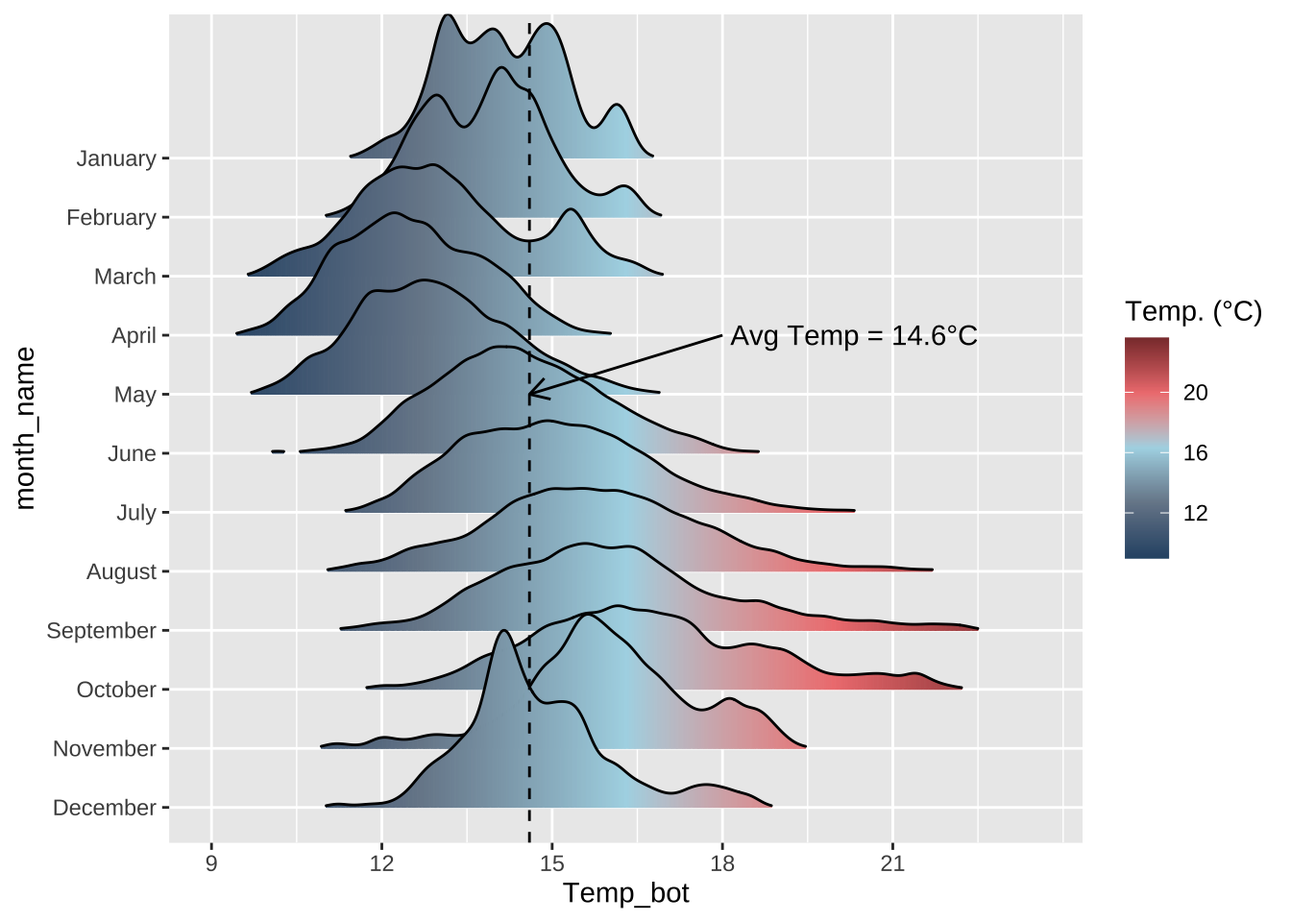
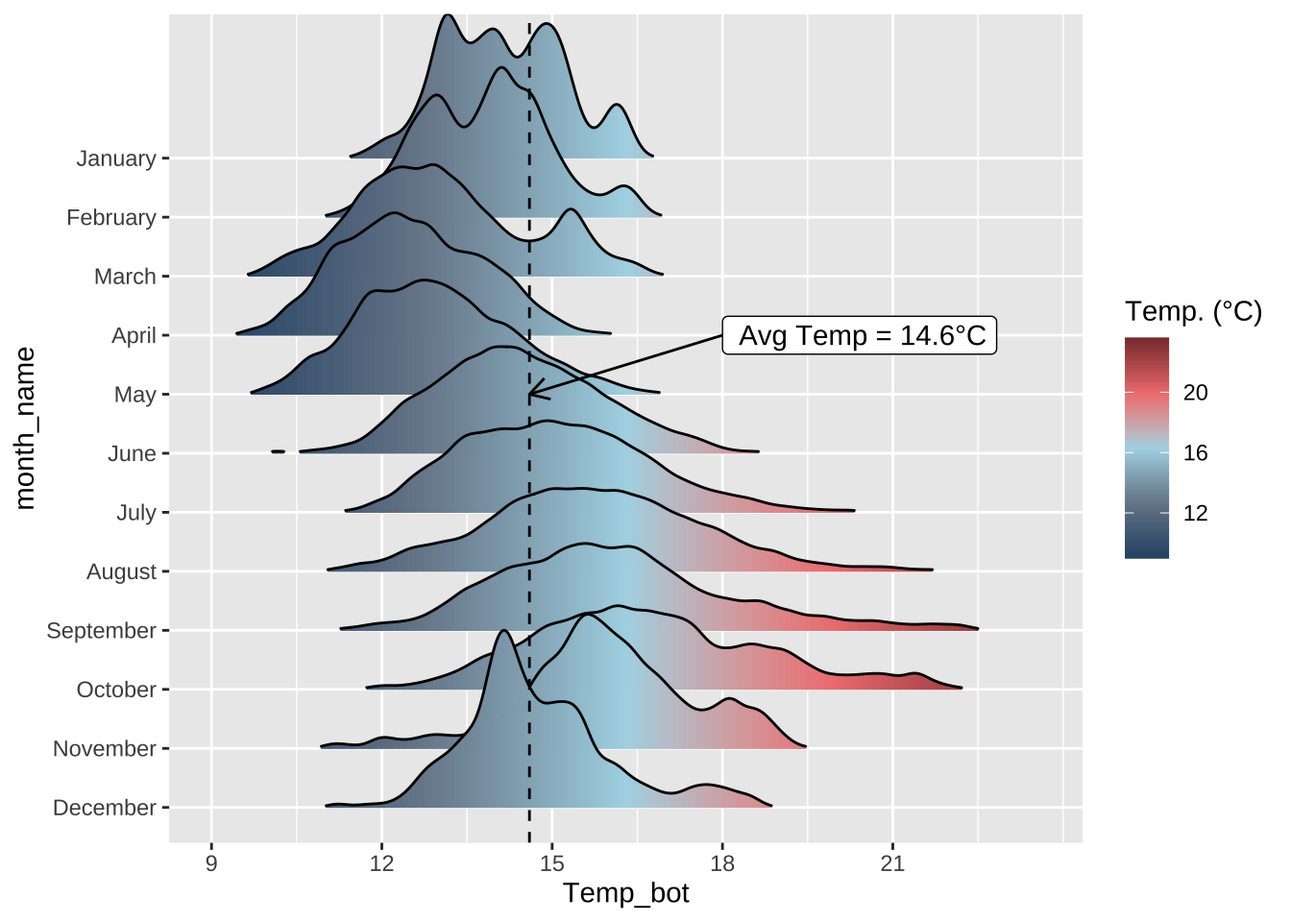
added words of wisdom section

Changed region(s): [[0.5625, 0.3438, 0.7812, 0.4062]]

diff --git a/index.html b/index.html
@@ -115,6 +115,7 @@ code span.wa { color: #60a0b0; font-weight: bold; font-style: italic; } /* Warni
   <li><a href="#step-3.-create-a-basic-plot" id="toc-step-3.-create-a-basic-plot" class="nav-link" data-scroll-target="#step-3.-create-a-basic-plot"><svg aria-label="Chart Simple" role="img" viewbox="0 0 448 512" style="height:1em;width:0.88em;vertical-align:-0.125em;margin-left:auto;margin-right:auto;font-size:inherit;fill:#5A5A5A;overflow:visible;position:relative;"><title>Chart Simple</title><path d="M160 80c0-26.5 21.5-48 48-48h32c26.5 0 48 21.5 48 48V432c0 26.5-21.5 48-48 48H208c-26.5 0-48-21.5-48-48V80zM0 272c0-26.5 21.5-48 48-48H80c26.5 0 48 21.5 48 48V432c0 26.5-21.5 48-48 48H48c-26.5 0-48-21.5-48-48V272zM368 96h32c26.5 0 48 21.5 48 48V432c0 26.5-21.5 48-48 48H368c-26.5 0-48-21.5-48-48V144c0-26.5 21.5-48 48-48z"></path></svg> Step 3. Create a basic plot</a></li>
   <li><a href="#step-4.-improve-clarity-take-home-messages" id="toc-step-4.-improve-clarity-take-home-messages" class="nav-link" data-scroll-target="#step-4.-improve-clarity-take-home-messages"><svg aria-label="Lightbulb" role="img" viewbox="0 0 384 512" style="height:1em;width:0.75em;vertical-align:-0.125em;margin-left:auto;margin-right:auto;font-size:inherit;fill:#5A5A5A;overflow:visible;position:relative;"><title>Lightbulb</title><path d="M112.1 454.3c0 6.297 1.816 12.44 5.284 17.69l17.14 25.69c5.25 7.875 17.17 14.28 26.64 14.28h61.67c9.438 0 21.36-6.401 26.61-14.28l17.08-25.68c2.938-4.438 5.348-12.37 5.348-17.7L272 415.1h-160L112.1 454.3zM192 0C90.02 .3203 16 82.97 16 175.1c0 44.38 16.44 84.84 43.56 115.8c16.53 18.84 42.34 58.23 52.22 91.45c.0313 .25 .0938 .5166 .125 .7823h160.2c.0313-.2656 .0938-.5166 .125-.7823c9.875-33.22 35.69-72.61 52.22-91.45C351.6 260.8 368 220.4 368 175.1C368 78.8 289.2 .0039 192 0zM288.4 260.1c-15.66 17.85-35.04 46.3-49.05 75.89h-94.61c-14.01-29.59-33.39-58.04-49.04-75.88C75.24 236.8 64 206.1 64 175.1C64 113.3 112.1 48.25 191.1 48C262.6 48 320 105.4 320 175.1C320 206.1 308.8 236.8 288.4 260.1zM176 80C131.9 80 96 115.9 96 160c0 8.844 7.156 16 16 16S128 168.8 128 160c0-26.47 21.53-48 48-48c8.844 0 16-7.148 16-15.99S184.8 80 176 80z"></path></svg> Step 4. Improve clarity &amp; take-home message(s)</a></li>
   <li><a href="#step-5.-final-touches-polishing" id="toc-step-5.-final-touches-polishing" class="nav-link" data-scroll-target="#step-5.-final-touches-polishing"><svg aria-label="Palette" role="img" viewbox="0 0 512 512" style="height:1em;width:1em;vertical-align:-0.125em;margin-left:auto;margin-right:auto;font-size:inherit;fill:#5A5A5A;overflow:visible;position:relative;"><title>Palette</title><path d="M512 256c0 .9 0 1.8 0 2.7c-.4 36.5-33.6 61.3-70.1 61.3H344c-26.5 0-48 21.5-48 48c0 3.4 .4 6.7 1 9.9c2.1 10.2 6.5 20 10.8 29.9c6.1 13.8 12.1 27.5 12.1 42c0 31.8-21.6 60.7-53.4 62c-3.5 .1-7 .2-10.6 .2C114.6 512 0 397.4 0 256S114.6 0 256 0S512 114.6 512 256zM128 288c0-17.7-14.3-32-32-32s-32 14.3-32 32s14.3 32 32 32s32-14.3 32-32zm0-96c17.7 0 32-14.3 32-32s-14.3-32-32-32s-32 14.3-32 32s14.3 32 32 32zM288 96c0-17.7-14.3-32-32-32s-32 14.3-32 32s14.3 32 32 32s32-14.3 32-32zm96 96c17.7 0 32-14.3 32-32s-14.3-32-32-32s-32 14.3-32 32s14.3 32 32 32z"></path></svg> Step 5. Final touches / polishing</a></li>
+  <li><a href="#notes-words-of-wisdom" id="toc-notes-words-of-wisdom" class="nav-link" data-scroll-target="#notes-words-of-wisdom"><svg aria-label="Pencil" role="img" viewbox="0 0 512 512" style="height:1em;width:1em;vertical-align:-0.125em;margin-left:auto;margin-right:auto;font-size:inherit;fill:#5A5A5A;overflow:visible;position:relative;"><title>Pencil</title><path d="M410.3 231l11.3-11.3-33.9-33.9-62.1-62.1L291.7 89.8l-11.3 11.3-22.6 22.6L58.6 322.9c-10.4 10.4-18 23.3-22.2 37.4L1 480.7c-2.5 8.4-.2 17.5 6.1 23.7s15.3 8.5 23.7 6.1l120.3-35.4c14.1-4.2 27-11.8 37.4-22.2L387.7 253.7 410.3 231zM160 399.4l-9.1 22.7c-4 3.1-8.5 5.4-13.3 6.9L59.4 452l23-78.1c1.4-4.9 3.8-9.4 6.9-13.3l22.7-9.1v32c0 8.8 7.2 16 16 16h32zM362.7 18.7L348.3 33.2 325.7 55.8 314.3 67.1l33.9 33.9 62.1 62.1 33.9 33.9 11.3-11.3 22.6-22.6 14.5-14.5c25-25 25-65.5 0-90.5L453.3 18.7c-25-25-65.5-25-90.5 0zm-47.4 168l-144 144c-6.2 6.2-16.4 6.2-22.6 0s-6.2-16.4 0-22.6l144-144c6.2-6.2 16.4-6.2 22.6 0s6.2 16.4 0 22.6z"></path></svg> Notes &amp; Words of Wisdom</a></li>
   <li><a href="#how-do-i-get-better-gain-confidence-in-creating-data-visualizations" id="toc-how-do-i-get-better-gain-confidence-in-creating-data-visualizations" class="nav-link" data-scroll-target="#how-do-i-get-better-gain-confidence-in-creating-data-visualizations"><strong><svg aria-label="Laptop Code" role="img" viewbox="0 0 640 512" style="height:1em;width:1.25em;vertical-align:-0.125em;margin-left:auto;margin-right:auto;font-size:inherit;fill:#5A5A5A;overflow:visible;position:relative;"><title>Laptop Code</title><path d="M64 96c0-35.3 28.7-64 64-64H512c35.3 0 64 28.7 64 64V352H512V96H128V352H64V96zM0 403.2C0 392.6 8.6 384 19.2 384H620.8c10.6 0 19.2 8.6 19.2 19.2c0 42.4-34.4 76.8-76.8 76.8H76.8C34.4 480 0 445.6 0 403.2zM281 209l-31 31 31 31c9.4 9.4 9.4 24.6 0 33.9s-24.6 9.4-33.9 0l-48-48c-9.4-9.4-9.4-24.6 0-33.9l48-48c9.4-9.4 24.6-9.4 33.9 0s9.4 24.6 0 33.9zM393 175l48 48c9.4 9.4 9.4 24.6 0 33.9l-48 48c-9.4 9.4-24.6 9.4-33.9 0s-9.4-24.6 0-33.9l31-31-31-31c-9.4-9.4-9.4-24.6 0-33.9s24.6-9.4 33.9 0z"></path></svg></strong> How do I get better / gain confidence in creating data visualizations?</a></li>
   <li><a href="#review-resources" id="toc-review-resources" class="nav-link" data-scroll-target="#review-resources"><strong><svg aria-label="Book open reader" role="img" viewbox="0 0 512 512" style="height:1em;width:1em;vertical-align:-0.125em;margin-left:auto;margin-right:auto;font-size:inherit;fill:#5A5A5A;overflow:visible;position:relative;"><title>Book open reader</title><path d="M352 96c0 53-43 96-96 96s-96-43-96-96s43-96 96-96s96 43 96 96zM240 248V512l-48.4-24.2c-20.9-10.4-43.5-17-66.8-19.3l-96-9.6C12.5 457.2 0 443.5 0 427V224c0-17.7 14.3-32 32-32H62.3c63.6 0 125.6 19.6 177.7 56zm32 264V248c52.1-36.4 114.1-56 177.7-56H480c17.7 0 32 14.3 32 32V427c0 16.4-12.5 30.2-28.8 31.8l-96 9.6c-23.2 2.3-45.9 8.9-66.8 19.3L272 512z"></path></svg></strong> Review &amp; Resources</a></li>
   </ul>
@@ -228,6 +229,7 @@ There are many ways to create the same visualization!
 <p>It’s important to remember that there are lots of different tools, packages, and approaches for building similarly-looking plots. My approach may not be what makes most intuitive sense to you – I encourage you to explore documentation and additional examples!</p>
 </div>
 </div>
+<p>If you need a high-level <code>{ggplot2}</code> review and/or a reminder of important considerations for building responsible data visualizations, take a look back at Allison Horst’s lectures <a href="https://docs.google.com/presentation/d/e/2PACX-1vSpUdai7BTXprh3dwSNBpJymNGUIOFhEgQn5XbQWZhWy8EpUyd64Lem08YK_kc6tP0iyoJ5wRAVvSYe/pub?start=false&amp;loop=false&amp;delayms=3000&amp;slide=id.p">15</a> and <a href="https://docs.google.com/presentation/d/e/2PACX-1vR1QB0S3AfBfdJZ1nnhUw2iKSxV83GDc5l9BYPC6yQhxBdnzRpAAZ2lh7QWhX4kY65Uf_q0yK9FtHmW/pub?start=false&amp;loop=false&amp;delayms=3000&amp;slide=id.p">16</a> from EDS 221.</p>
 <section id="step-1.-what-data-types" class="level2">
 <h2 class="anchored" data-anchor-id="step-1.-what-data-types"><svg aria-label="table" role="img" viewbox="0 0 512 512" style="height:1em;width:1em;vertical-align:-0.125em;margin-left:auto;margin-right:auto;font-size:inherit;fill:#5A5A5A;overflow:visible;position:relative;"><title>table</title><path d="M64 256V160H224v96H64zm0 64H224v96H64V320zm224 96V320H448v96H288zM448 256H288V160H448v96zM64 32C28.7 32 0 60.7 0 96V416c0 35.3 28.7 64 64 64H448c35.3 0 64-28.7 64-64V96c0-35.3-28.7-64-64-64H64z"></path></svg> Step 1. What data type(s)?</h2>
 <p>In order to determine the most appropriate and effective chart type, you first need to determine what type(s) of data you’re working with.</p>
@@ -594,7 +596,7 @@ Stacked area plots should be used with caution.
 <span id="cb10-25"><a href="#cb10-25" aria-hidden="true" tabindex="-1"></a>  <span class="fu">geom_vline</span>(<span class="at">xintercept =</span> mko_avg, <span class="at">linetype =</span> <span class="st">"dashed"</span>, <span class="at">color =</span> <span class="st">"black"</span>) <span class="sc">+</span></span>
 <span id="cb10-26"><a href="#cb10-26" aria-hidden="true" tabindex="-1"></a>  <span class="fu">annotate</span>(<span class="at">geom =</span> <span class="st">"segment"</span>, <span class="at">x =</span> <span class="dv">18</span>, <span class="at">y =</span> <span class="st">"April"</span>, <span class="at">xend =</span> mko_avg, <span class="at">yend =</span> <span class="st">"May"</span>,</span>
 <span id="cb10-27"><a href="#cb10-27" aria-hidden="true" tabindex="-1"></a>           <span class="at">arrow =</span> <span class="fu">arrow</span>(<span class="at">length =</span> <span class="fu">unit</span>(<span class="dv">3</span>, <span class="st">"mm"</span>))) <span class="sc">+</span> <span class="co"># this is mostly just a bunch of manual fiddling until the arrow is placed where I want it</span></span>
-<span id="cb10-28"><a href="#cb10-28" aria-hidden="true" tabindex="-1"></a>  <span class="fu">annotate</span>(<span class="at">geom =</span> <span class="st">"text"</span>, <span class="at">x =</span> <span class="dv">18</span>, <span class="at">y =</span> <span class="st">"April"</span>, <span class="at">label =</span> <span class="fu">paste0</span>(<span class="st">" Avg Temp = "</span>, mko_avg, <span class="st">"°C"</span>), <span class="at">hjust =</span> <span class="st">"left"</span>) <span class="sc">+</span> <span class="co"># same here</span></span>
+<span id="cb10-28"><a href="#cb10-28" aria-hidden="true" tabindex="-1"></a>  <span class="fu">annotate</span>(<span class="at">geom =</span> <span class="st">"label"</span>, <span class="at">x =</span> <span class="dv">18</span>, <span class="at">y =</span> <span class="st">"April"</span>, <span class="at">label =</span> <span class="fu">paste0</span>(<span class="st">" Avg Temp = "</span>, mko_avg, <span class="st">"°C"</span>), <span class="at">hjust =</span> <span class="st">"left"</span>) <span class="sc">+</span> <span class="co"># same here</span></span>
 <span id="cb10-29"><a href="#cb10-29" aria-hidden="true" tabindex="-1"></a></span>
 <span id="cb10-30"><a href="#cb10-30" aria-hidden="true" tabindex="-1"></a>  <span class="co"># set x-axis breaks ----</span></span>
 <span id="cb10-31"><a href="#cb10-31" aria-hidden="true" tabindex="-1"></a>  <span class="fu">scale_x_continuous</span>(<span class="at">breaks =</span> <span class="fu">c</span>(<span class="dv">9</span>, <span class="dv">12</span>, <span class="dv">15</span>, <span class="dv">18</span>, <span class="dv">21</span>)) <span class="sc">+</span></span>
@@ -620,9 +622,6 @@ Stacked area plots should be used with caution.
 <li>facet wrap by our three groupings (<code>perc_group</code>: occupations that are 75%+ female, 45-55% female, and 75%+ male) and add labels denoting which facet is which</li>
 </ul>
 <p>We might also choose to:</p>
-<ul>
-<li>add labels to each panel that clearly describes the groupings (e.g.&nbsp;occupations that are 75% female)</li>
-</ul>
 <div class="cell">
 <div class="sourceCode cell-code" id="cb11"><pre class="sourceCode r code-with-copy"><code class="sourceCode r"><span id="cb11-1"><a href="#cb11-1" aria-hidden="true" tabindex="-1"></a><span class="co">#..........................load packages.........................</span></span>
 <span id="cb11-2"><a href="#cb11-2" aria-hidden="true" tabindex="-1"></a><span class="fu">library</span>(tidyverse)</span>
@@ -636,14 +635,23 @@ Stacked area plots should be used with caution.
 <span id="cb11-10"><a href="#cb11-10" aria-hidden="true" tabindex="-1"></a>select_jobs <span class="ot">&lt;-</span> <span class="fu">readRDS</span>(here<span class="sc">::</span><span class="fu">here</span>(<span class="st">"clean-data"</span>, <span class="st">"select_jobs.rds"</span>)) </span>
 <span id="cb11-11"><a href="#cb11-11" aria-hidden="true" tabindex="-1"></a></span>
 <span id="cb11-12"><a href="#cb11-12" aria-hidden="true" tabindex="-1"></a><span class="co">#..............................plot..............................</span></span>
-<span id="cb11-13"><a href="#cb11-13" aria-hidden="true" tabindex="-1"></a>earnings_plot <span class="ot">&lt;-</span> <span class="fu">ggplot</span>(select_jobs) <span class="sc">+</span></span>
-<span id="cb11-14"><a href="#cb11-14" aria-hidden="true" tabindex="-1"></a>  </span>
-<span id="cb11-15"><a href="#cb11-15" aria-hidden="true" tabindex="-1"></a>  <span class="co"># create dumbbells</span></span>
-<span id="cb11-16"><a href="#cb11-16" aria-hidden="true" tabindex="-1"></a>  <span class="fu">geom_segment</span>(<span class="fu">aes</span>(<span class="at">x =</span> occupation, <span class="at">xend =</span> occupation, <span class="at">y =</span> total_earnings_female, <span class="at">yend =</span> total_earnings_male)) <span class="sc">+</span></span>
-<span id="cb11-17"><a href="#cb11-17" aria-hidden="true" tabindex="-1"></a>  <span class="fu">geom_point</span>(<span class="fu">aes</span>(<span class="at">x =</span> occupation, <span class="at">y =</span> total_earnings_male)) <span class="sc">+</span></span>
-<span id="cb11-18"><a href="#cb11-18" aria-hidden="true" tabindex="-1"></a>  <span class="fu">geom_point</span>(<span class="fu">aes</span>(<span class="at">x =</span> occupation, <span class="at">y =</span> total_earnings_female)) </span>
-<span id="cb11-19"><a href="#cb11-19" aria-hidden="true" tabindex="-1"></a></span>
-<span id="cb11-20"><a href="#cb11-20" aria-hidden="true" tabindex="-1"></a>earnings_plot</span></code><button title="Copy to Clipboard" class="code-copy-button"><i class="bi"></i></button></pre></div>
+<span id="cb11-13"><a href="#cb11-13" aria-hidden="true" tabindex="-1"></a><span class="co"># initialize ggplot ----</span></span>
+<span id="cb11-14"><a href="#cb11-14" aria-hidden="true" tabindex="-1"></a>earnings_plot <span class="ot">&lt;-</span> <span class="fu">ggplot</span>(select_jobs) <span class="sc">+</span></span>
+<span id="cb11-15"><a href="#cb11-15" aria-hidden="true" tabindex="-1"></a>  </span>
+<span id="cb11-16"><a href="#cb11-16" aria-hidden="true" tabindex="-1"></a>  <span class="co"># create dumbbells ----</span></span>
+<span id="cb11-17"><a href="#cb11-17" aria-hidden="true" tabindex="-1"></a>  <span class="fu">geom_segment</span>(<span class="fu">aes</span>(<span class="at">x =</span> <span class="fu">reorder</span>(occupation, avg_salary), <span class="at">xend =</span> occupation, <span class="at">y =</span> total_earnings_female, <span class="at">yend =</span> total_earnings_male)) <span class="sc">+</span> <span class="co"># reorder occupation by avg_salary here</span></span>
+<span id="cb11-18"><a href="#cb11-18" aria-hidden="true" tabindex="-1"></a>  <span class="fu">geom_point</span>(<span class="fu">aes</span>(<span class="at">x =</span> occupation, <span class="at">y =</span> total_earnings_male), <span class="at">color =</span> <span class="st">"#CD93D8"</span>, <span class="at">size =</span> <span class="fl">2.5</span>) <span class="sc">+</span></span>
+<span id="cb11-19"><a href="#cb11-19" aria-hidden="true" tabindex="-1"></a>  <span class="fu">geom_point</span>(<span class="fu">aes</span>(<span class="at">x =</span> occupation, <span class="at">y =</span> total_earnings_female), <span class="at">color =</span> <span class="st">"#6A1E99"</span>, <span class="at">size =</span> <span class="fl">2.5</span>) <span class="sc">+</span></span>
+<span id="cb11-20"><a href="#cb11-20" aria-hidden="true" tabindex="-1"></a>  </span>
+<span id="cb11-21"><a href="#cb11-21" aria-hidden="true" tabindex="-1"></a>  <span class="co"># flip axes &amp; facet wrap by group ----</span></span>
+<span id="cb11-22"><a href="#cb11-22" aria-hidden="true" tabindex="-1"></a>  <span class="fu">coord_flip</span>() <span class="sc">+</span></span>
+<span id="cb11-23"><a href="#cb11-23" aria-hidden="true" tabindex="-1"></a>  <span class="fu">facet_wrap</span>(<span class="sc">~</span>perc_group_label, <span class="at">nrow =</span> <span class="dv">3</span>, <span class="at">scales =</span> <span class="st">"free_y"</span>) <span class="sc">+</span> <span class="co"># "free_y" plots only the axis labels that exist in each group</span></span>
+<span id="cb11-24"><a href="#cb11-24" aria-hidden="true" tabindex="-1"></a>  </span>
+<span id="cb11-25"><a href="#cb11-25" aria-hidden="true" tabindex="-1"></a>  <span class="co"># axis breaks &amp; $ labels ----</span></span>
+<span id="cb11-26"><a href="#cb11-26" aria-hidden="true" tabindex="-1"></a>  <span class="fu">scale_y_continuous</span>(<span class="at">labels =</span> scales<span class="sc">::</span><span class="fu">label_dollar</span>(<span class="at">scale =</span> <span class="fl">0.001</span>, <span class="at">suffix =</span> <span class="st">"k"</span>),</span>
+<span id="cb11-27"><a href="#cb11-27" aria-hidden="true" tabindex="-1"></a>                     <span class="at">breaks =</span> <span class="fu">c</span>(<span class="dv">25000</span>, <span class="dv">50000</span>, <span class="dv">75000</span>, <span class="dv">100000</span>, <span class="dv">125000</span>)) </span>
+<span id="cb11-28"><a href="#cb11-28" aria-hidden="true" tabindex="-1"></a></span>
+<span id="cb11-29"><a href="#cb11-29" aria-hidden="true" tabindex="-1"></a>earnings_plot</span></code><button title="Copy to Clipboard" class="code-copy-button"><i class="bi"></i></button></pre></div>
 <div class="cell-output-display">
 <p><img src="index_files/figure-html/unnamed-chunk-11-1.png" class="img-fluid" width="672"></p>
 </div>
@@ -921,6 +929,47 @@ Stacked area plots should be used with caution.
 </div>
 </div>
 </section>
+<section id="notes-words-of-wisdom" class="level2">
+<h2 class="anchored" data-anchor-id="notes-words-of-wisdom"><svg aria-label="Pencil" role="img" viewbox="0 0 512 512" style="height:1em;width:1em;vertical-align:-0.125em;margin-left:auto;margin-right:auto;font-size:inherit;fill:#5A5A5A;overflow:visible;position:relative;"><title>Pencil</title><path d="M410.3 231l11.3-11.3-33.9-33.9-62.1-62.1L291.7 89.8l-11.3 11.3-22.6 22.6L58.6 322.9c-10.4 10.4-18 23.3-22.2 37.4L1 480.7c-2.5 8.4-.2 17.5 6.1 23.7s15.3 8.5 23.7 6.1l120.3-35.4c14.1-4.2 27-11.8 37.4-22.2L387.7 253.7 410.3 231zM160 399.4l-9.1 22.7c-4 3.1-8.5 5.4-13.3 6.9L59.4 452l23-78.1c1.4-4.9 3.8-9.4 6.9-13.3l22.7-9.1v32c0 8.8 7.2 16 16 16h32zM362.7 18.7L348.3 33.2 325.7 55.8 314.3 67.1l33.9 33.9 62.1 62.1 33.9 33.9 11.3-11.3 22.6-22.6 14.5-14.5c25-25 25-65.5 0-90.5L453.3 18.7c-25-25-65.5-25-90.5 0zm-47.4 168l-144 144c-6.2 6.2-16.4 6.2-22.6 0s-6.2-16.4 0-22.6l144-144c6.2-6.2 16.4-6.2 22.6 0s6.2 16.4 0 22.6z"></path></svg> Notes &amp; Words of Wisdom</h2>
+<p>To be completely transparent, <strong>these three visualizations took me ~2 weeks to complete</strong> (including finding data, cleaning data, and visualizing data), even with borrowing code and taking inspiration from existing examples. <em>And</em> they can all still be improved! <strong>Data visualization can be challenging, particularly when you get to the fine-tuning stage</strong> – it’s important to take an iterative approach. Some notes on how I did this:</p>
+<ul>
+<li><strong>add arguments one-by-one</strong>: it’s likely that you won’t know all the arguments for each plotting function off the top of your head (and many may require a deep-dive on Google to discover). Apply those that you know first, identify what you want to tweak after, then craft a nice Google query to figure out what options you have. For example, after facet wrapping the wages plot (Example 2), I noticed <em>all</em> occupation names were included on each facet, rather than only those occupations that belong with each facet. I didn’t know how to do this, so I Googled, <em>“plot only axis labels that belong with facet ggplot”</em>, which led me to <a href="https://stackoverflow.com/questions/31227658/ggplot2-facet-wrap-only-use-x-axis-labels-existing-in-each-group">this stackoverflow post</a>, where I found a solution (<code>facet_wrap(~perc_group_label, nrow = 3, scales = "free_y")</code>):</li>
+</ul>
+<div class="cell quarto-layout-panel">
+<div class="quarto-layout-row quarto-layout-valign-top">
+<div class="cell-output-display quarto-layout-cell" style="flex-basis: 50.0%;justify-content: center;">
+<div id="fig-charts-1" class="quarto-figure quarto-figure-center anchored">
+<figure class="figure">
+<p><img src="index_files/figure-html/fig-charts-1.png" class="img-fluid figure-img" width="672"></p>
+<p></p><figcaption class="figure-caption">Figure&nbsp;1: without <code>scales = 'free_y'</code></figcaption><p></p>
+</figure>
+</div>
+</div>
+<div class="cell-output-display quarto-layout-cell" style="flex-basis: 50.0%;justify-content: center;">
+<div id="fig-charts-2" class="quarto-figure quarto-figure-center anchored">
+<figure class="figure">
+<p><img src="index_files/figure-html/fig-charts-2.png" class="img-fluid figure-img" width="672"></p>
+<p></p><figcaption class="figure-caption">Figure&nbsp;2: with <code>scales = 'free_y'</code></figcaption><p></p>
+</figure>
+</div>
+</div>
+</div>
+</div>
+<ul>
+<li><strong>change one thing at a time, particularly when you get to the fine-tuning stage:</strong> some plot elements are more finicky than others. For example, finding the right positioning of text (“100% Drought”, “50% Drought”, “50% Wet”, “100% Wet”) on the CA drought plot took lots of manual and incremental updates to the <code>x</code> and <code>y</code> arguments in <code>cowplot::draw_text()</code>. Updating all four text positions at once can make it challenging to tell what modifications worked and which didn’t. Instead, update the <code>x</code> value for <em>just one text layer</em> until you have the horizontal placement as you like. Then update the <code>y</code> value until the vertical placement is as you like. Move to the next text layer and repeat.</li>
+</ul>
+<div class="cell">
+<div class="sourceCode cell-code" id="cb16"><pre class="sourceCode r code-with-copy"><code class="sourceCode r"><span id="cb16-1"><a href="#cb16-1" aria-hidden="true" tabindex="-1"></a><span class="co"># adding and positioning text using {cowplot} to the Drought plot (Example 3)</span></span>
+<span id="cb16-2"><a href="#cb16-2" aria-hidden="true" tabindex="-1"></a>annotated_ca_plot <span class="ot">&lt;-</span> cowplot<span class="sc">::</span><span class="fu">ggdraw</span>(ca_plot) <span class="sc">+</span></span>
+<span id="cb16-3"><a href="#cb16-3" aria-hidden="true" tabindex="-1"></a>  cowplot<span class="sc">::</span><span class="fu">draw_text</span>(<span class="at">x =</span> <span class="fl">0.915</span>, <span class="at">y =</span> <span class="fl">0.837</span>, <span class="at">color =</span> <span class="st">"#303030"</span>, <span class="at">text =</span> <span class="st">"100% Drought"</span>, <span class="at">family =</span> <span class="st">"sen"</span>, <span class="at">size =</span> <span class="dv">11</span>, <span class="at">fontface =</span> <span class="st">"bold"</span>) <span class="sc">+</span> </span>
+<span id="cb16-4"><a href="#cb16-4" aria-hidden="true" tabindex="-1"></a>  cowplot<span class="sc">::</span><span class="fu">draw_text</span>(<span class="at">x =</span> <span class="fl">0.92</span>, <span class="at">y =</span> <span class="fl">0.71</span>, <span class="at">color =</span> <span class="st">"#5B5B5B"</span>, <span class="at">text =</span> <span class="st">"50% Drought"</span>, <span class="at">family =</span> <span class="st">"sen"</span>, <span class="at">size =</span> <span class="dv">11</span>, <span class="at">fontface =</span> <span class="st">"bold"</span>) <span class="sc">+</span> </span>
+<span id="cb16-5"><a href="#cb16-5" aria-hidden="true" tabindex="-1"></a>  cowplot<span class="sc">::</span><span class="fu">draw_text</span>(<span class="at">x =</span> <span class="fl">0.945</span>, <span class="at">y =</span> <span class="fl">0.47</span>, <span class="at">color =</span> <span class="st">"#5B5B5B"</span>, <span class="at">text =</span> <span class="st">"50% Wet"</span>, <span class="at">family =</span> <span class="st">"sen"</span>, <span class="at">size =</span> <span class="dv">11</span>, <span class="at">fontface =</span> <span class="st">"bold"</span>) <span class="sc">+</span> </span>
+<span id="cb16-6"><a href="#cb16-6" aria-hidden="true" tabindex="-1"></a>  cowplot<span class="sc">::</span><span class="fu">draw_text</span>(<span class="at">x =</span> <span class="fl">0.94</span>, <span class="at">y =</span> <span class="fl">0.35</span>, <span class="at">color =</span> <span class="st">"#303030"</span>, <span class="at">text =</span> <span class="st">"100% Wet"</span>, <span class="at">family =</span> <span class="st">"sen"</span>, <span class="at">size =</span> <span class="dv">11</span>, <span class="at">fontface =</span> <span class="st">"bold"</span>) </span></code><button title="Copy to Clipboard" class="code-copy-button"><i class="bi"></i></button></pre></div>
+</div>
+<ul>
+<li><strong>Google is an invaluable resource</strong> – I <em>cannot</em> stress this enough! I’ve been using <code>{ggplot2}</code> for ~6 years now (okay, definitely not the longest time, but also not an insignificant amount of time?!?). I’d estimate that &gt;90% of my time building these plots was spent Googling for documentation/examples, trying them out, seeing what worked/what didn’t, rinsing/repeating. I certainly got frustrated, and I didn’t figure out all the things I wanted to implement. Taking a breather and coming back to your work at a later time often helps. <em>Creating visualizations that are effective, eye-catching, and something that you’re proud of takes persistence and patience, but you all are 100% capable.</em></li>
+</ul>
+</section>
 <section id="how-do-i-get-better-gain-confidence-in-creating-data-visualizations" class="level2">
 <h2 class="anchored" data-anchor-id="how-do-i-get-better-gain-confidence-in-creating-data-visualizations"><strong><svg aria-label="Laptop Code" role="img" viewbox="0 0 640 512" style="height:1em;width:1.25em;vertical-align:-0.125em;margin-left:auto;margin-right:auto;font-size:inherit;fill:#5A5A5A;overflow:visible;position:relative;"><title>Laptop Code</title><path d="M64 96c0-35.3 28.7-64 64-64H512c35.3 0 64 28.7 64 64V352H512V96H128V352H64V96zM0 403.2C0 392.6 8.6 384 19.2 384H620.8c10.6 0 19.2 8.6 19.2 19.2c0 42.4-34.4 76.8-76.8 76.8H76.8C34.4 480 0 445.6 0 403.2zM281 209l-31 31 31 31c9.4 9.4 9.4 24.6 0 33.9s-24.6 9.4-33.9 0l-48-48c-9.4-9.4-9.4-24.6 0-33.9l48-48c9.4-9.4 24.6-9.4 33.9 0s9.4 24.6 0 33.9zM393 175l48 48c9.4 9.4 9.4 24.6 0 33.9l-48 48c-9.4 9.4-24.6 9.4-33.9 0s-9.4-24.6 0-33.9l31-31-31-31c-9.4-9.4-9.4-24.6 0-33.9s24.6-9.4 33.9 0z"></path></svg></strong> How do I get better / gain confidence in creating data visualizations?</h2>
 <p>Creating beautiful and effective data visualizations is a skill that gets better with practice – give <a href="https://github.com/rfordatascience/tidytuesday">#tidytuesday</a> a whirl, enter a <a href="https://www.kaggle.com/competitions">Kaggle competition</a>, take a deep dive into aRtistry (check out <a href="https://ijeamaka-anyene.netlify.app/">Ijeamaka Anyene’s</a> amazing talk on creating radial visualizations with <code>ggplot2</code> - <a href="https://ijeamakaanyene.github.io/aRt_ggplot/index.html#1">slides</a> &amp; <a href="https://www.youtube.com/watch?v=h0i6KAahLY8&amp;ab_channel=R-LadiesGlobal">recording</a>), or simply start playing around with data that means something to you.</p>
@@ -929,7 +978,7 @@ Stacked area plots should be used with caution.
 <h2 class="anchored" data-anchor-id="review-resources"><strong><svg aria-label="Book open reader" role="img" viewbox="0 0 512 512" style="height:1em;width:1em;vertical-align:-0.125em;margin-left:auto;margin-right:auto;font-size:inherit;fill:#5A5A5A;overflow:visible;position:relative;"><title>Book open reader</title><path d="M352 96c0 53-43 96-96 96s-96-43-96-96s43-96 96-96s96 43 96 96zM240 248V512l-48.4-24.2c-20.9-10.4-43.5-17-66.8-19.3l-96-9.6C12.5 457.2 0 443.5 0 427V224c0-17.7 14.3-32 32-32H62.3c63.6 0 125.6 19.6 177.7 56zm32 264V248c52.1-36.4 114.1-56 177.7-56H480c17.7 0 32 14.3 32 32V427c0 16.4-12.5 30.2-28.8 31.8l-96 9.6c-23.2 2.3-45.9 8.9-66.8 19.3L272 512z"></path></svg></strong> Review &amp; Resources</h2>
 <p>Take a look back at <a href="https://allisonhorst.github.io/">Allison Horst’s</a> data viz lectures and labs from EDS 221 for a <code>{ggplot2}</code> review, practice, and a reminder about important considerations for making responsible data visualizations:</p>
 <ul>
-<li><a href="https://docs.google.com/presentation/d/e/2PACX-1vSpUdai7BTXprh3dwSNBpJymNGUIOFhEgQn5XbQWZhWy8EpUyd64Lem08YK_kc6tP0iyoJ5wRAVvSYe/pub?start=false&amp;loop=false&amp;delayms=3000&amp;slide=id.p"><strong>Lecture 15:</strong> The (layered) grammar of graphics &amp; data viz considerations</a> -<a href="https://docs.google.com/presentation/d/e/2PACX-1vR1QB0S3AfBfdJZ1nnhUw2iKSxV83GDc5l9BYPC6yQhxBdnzRpAAZ2lh7QWhX4kY65Uf_q0yK9FtHmW/pub?start=false&amp;loop=false&amp;delayms=3000&amp;slide=id.p"><strong>Lecture 16:</strong> Data exploration adn visualization continued</a></li>
+<li><a href="https://docs.google.com/presentation/d/e/2PACX-1vSpUdai7BTXprh3dwSNBpJymNGUIOFhEgQn5XbQWZhWy8EpUyd64Lem08YK_kc6tP0iyoJ5wRAVvSYe/pub?start=false&amp;loop=false&amp;delayms=3000&amp;slide=id.p"><strong>Lecture 15:</strong> The (layered) grammar of graphics &amp; data viz considerations</a> -<a href="https://docs.google.com/presentation/d/e/2PACX-1vR1QB0S3AfBfdJZ1nnhUw2iKSxV83GDc5l9BYPC6yQhxBdnzRpAAZ2lh7QWhX4kY65Uf_q0yK9FtHmW/pub?start=false&amp;loop=false&amp;delayms=3000&amp;slide=id.p"><strong>Lecture 16:</strong> Data exploration and visualization continued</a></li>
 <li><a href="https://allisonhorst.github.io/eds221-day8-comp/data_viz.html"><strong>Lab:</strong> Customized Data Visualization in <code>ggplot2</code></a></li>
 </ul>
 <p>There are lots of other great data viz resources out there as well. Check out:</p>
